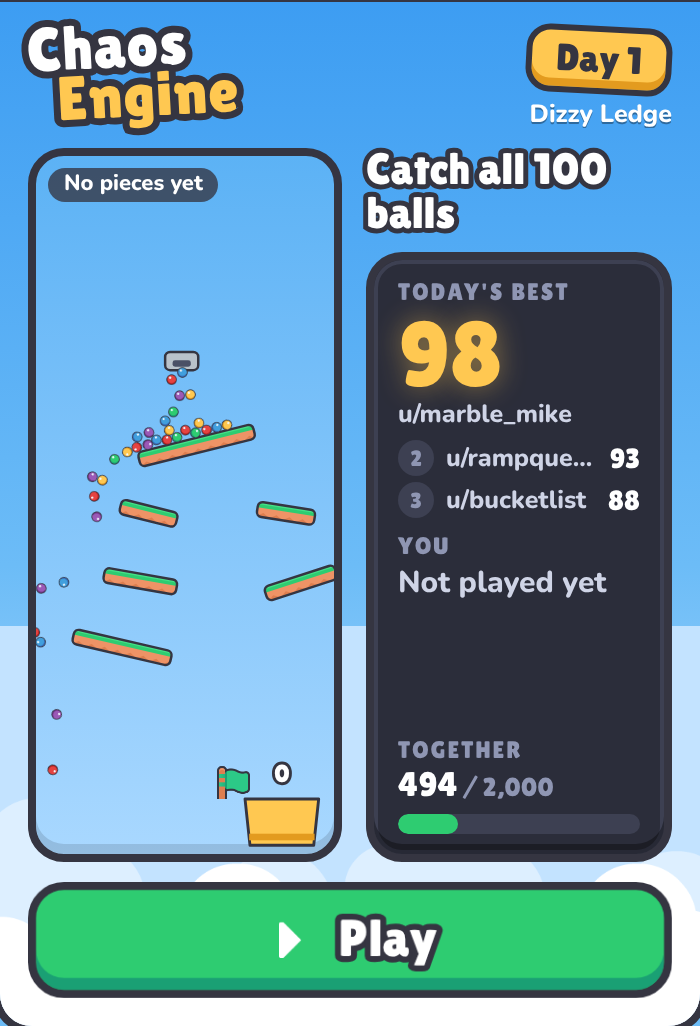
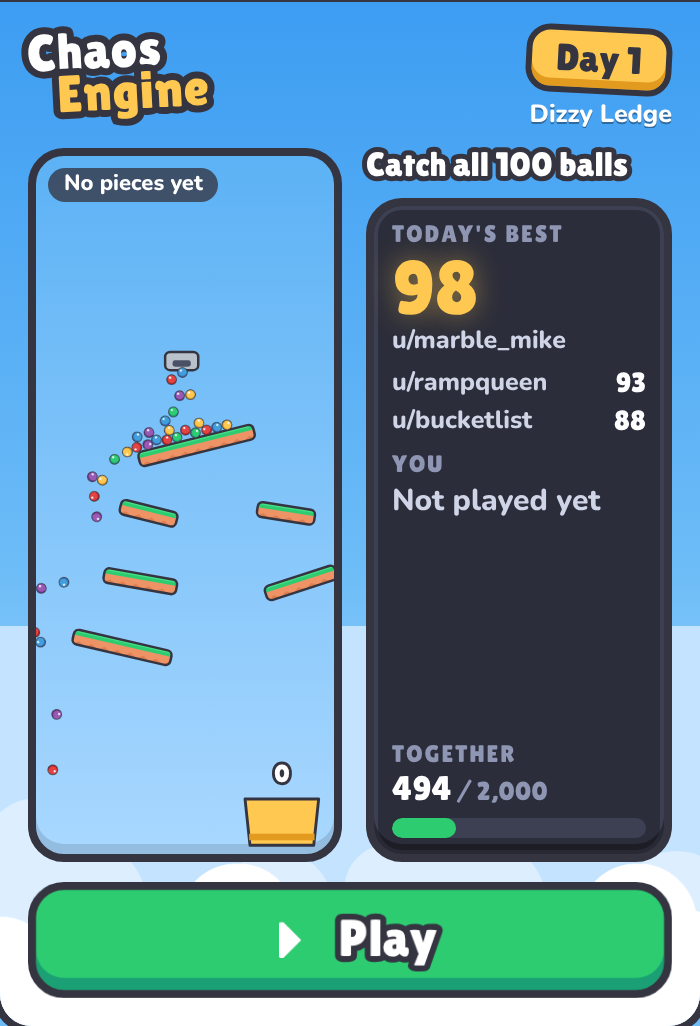
Drop the flag; fix small-screen overflows and spinner jump
- Leaderboard card scrolls its list (to your row) so Close always fits
- Icon-only tools under 360px wide; tighter cards on short screens
- Feed card: smaller headline and numbers on narrow cards
- Spinners rest at their start pose until the pour (no jump on Pour)
- Pieces can't sit in the chute's mouth (new balls would appear inside
  them); same rule on phone and server

Claude-Session: https://claude.ai/code/session_01LMNKs3AJVZCGNwu53evDzU

diff --git a/src/client/pour/game.css b/src/client/pour/game.css
@@ -52,7 +52,7 @@ img { display: block; -webkit-user-drag: none; pointer-events: none; }
 .tip[hidden] { display: none !important; }
 
 .veil { position: absolute; inset: 0; display: flex; align-items: center; justify-content: center; padding: 12px; background: rgba(20, 60, 120, .3); z-index: 5; }
-.card { width: 100%; max-width: 330px; max-height: 100%; overflow: auto; border-radius: 24px; background: var(--paper); border: 4px solid var(--ink); box-shadow: inset 0 -8px 0 #dbe5ee; padding: 16px 16px 20px; display: flex; flex-direction: column; align-items: center; gap: 10px; animation: pop .3s cubic-bezier(.3, 1.5, .5, 1); }
+.card { width: 100%; max-width: 330px; max-height: 100%; min-height: 0; overflow: hidden; border-radius: 24px; background: var(--paper); border: 4px solid var(--ink); box-shadow: inset 0 -8px 0 #dbe5ee; padding: 16px 16px 20px; display: flex; flex-direction: column; align-items: center; gap: 10px; animation: pop .3s cubic-bezier(.3, 1.5, .5, 1); }
 @keyframes pop { from { transform: scale(.8); opacity: 0; } }
 .card h2 { margin: 0; font: 26px var(--display); text-align: center; }
 .card p { margin: 0; color: var(--muted); text-align: center; }
@@ -65,8 +65,10 @@ img { display: block; -webkit-user-drag: none; pointer-events: none; }
 .btn.b { background: var(--blue); box-shadow: inset 0 -5px 0 var(--blue-d); }
 .btn.y { background: var(--yellow); box-shadow: inset 0 -5px 0 var(--yellow-d); }
 
-.board { list-style: none; margin: 0; padding: 0; width: 100%; display: flex; flex-direction: column; gap: 4px; }
-.board li { display: flex; align-items: center; gap: 8px; height: 36px; padding: 0 10px 0 6px; border-radius: 12px; background: #eef4fa; }
+.board { list-style: none; margin: 0; padding: 0; width: 100%; display: flex; flex-direction: column; gap: 4px; min-height: 0; overflow-y: auto; flex: 0 1 auto; }
+.card > * { flex-shrink: 0; }
+.card > .board { flex-shrink: 1; }
+.board li { display: flex; align-items: center; gap: 8px; height: 36px; flex: none; padding: 0 10px 0 6px; border-radius: 12px; background: #eef4fa; }
 .board li.me { background: #fff3cf; box-shadow: inset 0 0 0 3px var(--yellow); }
 .board li.gap { justify-content: center; background: none; height: 16px; color: var(--muted); }
 .board .who { flex: 1; min-width: 0; overflow: hidden; text-overflow: ellipsis; white-space: nowrap; }
@@ -91,3 +93,21 @@ img { display: block; -webkit-user-drag: none; pointer-events: none; }
 .confetto { position: absolute; top: -30px; width: 22px; height: 22px; animation: fall 2.4s ease-in forwards; z-index: 6; pointer-events: none; }
 @keyframes fall { to { transform: translateY(110vh) rotate(540deg); } }
 @media (prefers-reduced-motion: reduce) { .card, .confetto { animation: none; } .confetto { display: none; } }
+
+/* Small phones: tighter cards, icon-only tools. */
+@media (max-height: 640px) {
+  .card { gap: 8px; padding: 12px 12px 14px; }
+  .card h2 { font-size: 22px; }
+  .board li { height: 30px; }
+  .board b { font-size: 17px; }
+  .big { font-size: 60px; }
+  .btn { height: 48px; font-size: 18px; }
+}
+@media (max-width: 359px) {
+  .tool { height: 56px; }
+  .tool b { display: none; }
+  .tool canvas { width: 36px; height: 31px; }
+  .go { width: 66px; height: 60px; }
+  .wide { font-size: 15px; height: 56px; }
+  .top .name { font-size: 16px; }
+}

diff --git a/src/client/pour/game.ts b/src/client/pour/game.ts
@@ -2,7 +2,7 @@
  * The game screen: place pieces on today's machine, pour 100 balls, climb the leaderboard.
  * Physics runs here at a fixed 1/60 s step with the same code the server uses to check scores.
  */
-import { snap } from '../../shared/pour/build';
+import { fitPiece, snap } from '../../shared/pour/build';
 import { Pour } from '../../shared/pour/sim';
 import { BALLS, H, type Machine, type Piece, type Tool, TOOL_NAME, TOOLS, TURN, W } from '../../shared/pour/types';
 import type { DayView, Entry, PourResult, Totals } from '../../shared/protocol';
@@ -86,7 +86,7 @@ export class Game {
   private loadBuild(): Piece[] {
     try {
       const raw = store(this.buildKey());
-      if (raw) return (JSON.parse(raw) as Piece[]).filter((p) => TOOLS.includes(p.type));
+      if (raw) return (JSON.parse(raw) as Piece[]).filter((p) => TOOLS.includes(p.type)).map((p) => fitPiece(this.machine, snap(p)));
     } catch {
       /* ignore */
     }
@@ -203,7 +203,7 @@ export class Game {
       // A tap: turn it.
       const i = this.pieces.indexOf(d.piece);
       if (TURN[d.piece.type] && i >= 0) {
-        this.pieces[i] = snap({ ...d.piece, a: d.piece.a + TURN[d.piece.type] });
+        this.pieces[i] = fitPiece(this.machine, snap({ ...d.piece, a: d.piece.a + TURN[d.piece.type] }));
         this.selected = this.pieces[i]!;
         sfx.tick();
         this.say('Turned. Tap again to keep turning', 1400);
@@ -224,7 +224,7 @@ export class Game {
       this.renderBar();
       return;
     }
-    const placed = snap(d.piece);
+    const placed = fitPiece(this.machine, snap(d.piece));
     if (d.fresh) this.pieces.push(placed);
     else this.pieces[this.pieces.indexOf(d.piece)] = placed;
     this.selected = placed;
@@ -411,11 +411,13 @@ export class Game {
     const v = this.v;
     const rows = v.board.map((e) => boardRow(e, e.username === v.me.username));
     if (v.me.rank && v.me.best !== null && !v.board.some((e) => e.username === v.me.username)) rows.push(h('li', { class: 'gap' }, '⋯'), boardRow({ rank: v.me.rank, username: v.me.username ?? 'you', score: v.me.best, at: 0 }, true));
+    const list = h('ol', { class: 'board' }, ...rows);
+    requestAnimationFrame(() => list.querySelector('.me')?.scrollIntoView({ block: 'nearest' }));
     const closed = this.closed();
     const foot = closed ? (v.result?.winner ? `Build of the Day: u/${v.result.winner.username}` : 'This machine has closed.') : `Builds are revealed when the day closes in ${until(v.day.locksAt - Date.now() - this.skew)}.`;
     this.card(
       h('h2', {}, closed ? 'Final board' : "Today's board"),
-      rows.length ? h('ol', { class: 'board' }, ...rows) : h('p', {}, 'Nobody has poured yet. Be the first!'),
+      rows.length ? list : h('p', {}, 'Nobody has poured yet. Be the first!'),
       meter(v.result?.totals ?? v.totals),
       h('p', { class: 'foot' }, foot),
       h('div', { class: 'row' }, h('button', { class: 'btn b', onclick: () => this.closeCard() }, 'Close')),

diff --git a/src/client/pour/draw.ts b/src/client/pour/draw.ts
@@ -16,7 +16,7 @@ export function img(name: string): HTMLImageElement {
   }
   return i;
 }
-export const ART = ['fan', 'fan_blades', 'spring', 'spring_out', 'flag_a', 'flag_b', ...BALL_LOOKS];
+export const ART = ['fan', 'fan_blades', 'spring', 'spring_out', ...BALL_LOOKS];
 export const artReady = (): Promise<void> =>
   Promise.all(ART.map((n) => (img(n).complete ? Promise.resolve() : new Promise<void>((r) => ((img(n).onload = () => r()), (img(n).onerror = () => r())))))).then(() => undefined);
 
@@ -162,7 +162,7 @@ export function drawPiece(c: CanvasRenderingContext2D, p: Piece, t: number, alph
   c.globalAlpha = 1;
 }
 
-function drawBucket(c: CanvasRenderingContext2D, bk: Machine['bucket'], glow: number, now: number): void {
+function drawBucket(c: CanvasRenderingContext2D, bk: Machine['bucket'], glow: number): void {
   const x = bk.x - bk.w / 2 - 8;
   const y = bk.y - 32;
   const w = bk.w + 16;
@@ -180,8 +180,6 @@ function drawBucket(c: CanvasRenderingContext2D, bk: Machine['bucket'], glow: nu
   c.stroke();
   c.fillStyle = '#e39b1f';
   c.fillRect(x + 5, y + h - 14, w - 10, 8);
-  const flagLeft = bk.x > W - 70;
-  c.drawImage(img(Math.floor(now / 380) % 2 ? 'flag_a' : 'flag_b'), flagLeft ? x - 34 : x + w - 6, y - 40, 40, 40);
 }
 
 function drawChute(c: CanvasRenderingContext2D, sp: Machine['spawn']): void {
@@ -254,7 +252,7 @@ export class View {
     for (const b of m.blocks) drawBlock(c, b);
     for (const [x, y] of m.pegs) drawPeg(c, x, y);
     m.spinners.forEach((sp, i) => {
-      const angle = s.pour ? s.pour.spinners[i]!.body.angle : (s.now / (1000 / 60)) * sp.speed;
+      const angle = s.pour ? s.pour.spinners[i]!.body.angle : 0; // at rest in the pose every pour starts from
       withRot(c, sp.x, sp.y, angle, () => {
         drawPlank(c, sp.len, 12);
         c.beginPath();
@@ -266,7 +264,7 @@ export class View {
         c.stroke();
       });
     });
-    drawBucket(c, m.bucket, s.flashes.get('bucket') ?? 0, s.now);
+    drawBucket(c, m.bucket, s.flashes.get('bucket') ?? 0);
     s.pieces.forEach((p, i) => {
       if (p !== s.drag?.piece) drawPiece(c, p, t, 1, s.flashes.get(i) ?? 0);
     });

diff --git a/tests/pour.test.ts b/tests/pour.test.ts
@@ -1,6 +1,6 @@
 import { describe, expect, it } from 'vitest';
 import { datan2, dcos, dsin, withDetMath } from '../src/shared/pour/detmath';
-import { buildKey, cleanBuild, parseBuildKey, snap } from '../src/shared/pour/build';
+import { buildKey, cleanBuild, fitPiece, parseBuildKey, snap } from '../src/shared/pour/build';
 import { Pour, runPour } from '../src/shared/pour/sim';
 import { machineForDay, mirror, PACK } from '../src/shared/pour/pack';
 import { generateMachine } from '../src/shared/pour/generate';
@@ -64,6 +64,14 @@ describe('builds', () => {
     expect(cleanBuild(TEST_MACHINE, [{ type: 'spring', x: 1, y: 1, a: 0 }])).toBeNull();
     expect(cleanBuild(TEST_MACHINE, [{ type: 'ramp', x: NaN, y: 1, a: 0 }])).toBeNull();
     expect(cleanBuild(TEST_MACHINE, 'nope')).toBeNull();
+  });
+  it('moves pieces out of the chute mouth, and only those', () => {
+    const sp = TEST_MACHINE.spawn;
+    const under = fitPiece(TEST_MACHINE, { type: 'ramp', x: sp.x, y: 40, a: 80 });
+    expect(under.y).toBe(sp.y + 12 + 42);
+    expect(fitPiece(TEST_MACHINE, under)).toEqual(under);
+    expect(fitPiece(TEST_MACHINE, { type: 'ramp', x: sp.x + 120, y: 40, a: 0 }).y).toBe(40);
+    expect(cleanBuild(TEST_MACHINE, [{ type: 'bumper', x: sp.x, y: 41, a: 0 }])![0]!.y).toBe(sp.y + 12 + 17);
   });
   it('round-trips through its stored form', () => {
     const b: Piece[] = [{ type: 'ramp', x: 100, y: 200, a: 40 }];

diff --git a/src/shared/pour/build.ts b/src/shared/pour/build.ts
@@ -17,6 +17,21 @@ export function snap(p: Piece): Piece {
   };
 }
 
+/** How far each piece reaches from its centre. */
+const REACH: Record<Tool, number> = { ramp: 42, spring: 34, bumper: 17, fan: 15 };
+
+/**
+ * Keep pieces out of the chute's mouth: a piece there would make new balls appear inside it.
+ * A piece too close is moved straight down until it clears. Same rule on phone and server.
+ */
+export function fitPiece(machine: Machine, p: Piece): Piece {
+  const sp = machine.spawn;
+  const r = REACH[p.type];
+  if (Math.abs(p.x - sp.x) >= r + 14) return p;
+  const minY = sp.y + 12 + r;
+  return p.y >= minY ? p : { ...p, y: minY };
+}
+
 /** A valid build for this machine, or null. Never trusts the client: snaps and counts everything. */
 export function cleanBuild(machine: Machine, raw: unknown): Piece[] | null {
   if (!Array.isArray(raw) || raw.length > MAX_PIECES) return null;
@@ -29,7 +44,7 @@ export function cleanBuild(machine: Machine, raw: unknown): Piece[] | null {
     if (![x, y, a].every(Number.isFinite)) return null;
     used[type] = (used[type] ?? 0) + 1;
     if (used[type]! > (machine.tools[type] ?? 0)) return null;
-    out.push(snap({ type, x, y, a }));
+    out.push(fitPiece(machine, snap({ type, x, y, a })));
   }
   return out;
 }

diff --git a/src/client/splash/card.css b/src/client/splash/card.css
@@ -66,3 +66,12 @@
   .ce-card .none { font-size: 13px; }
   .ce-card .play { height: 50px; font-size: 22px; }
 }
+
+/* Narrow cards: smaller headline and numbers so names keep their room. */
+@container (max-width: 340px) {
+  .ce-card .hook { font-size: 17px; }
+  .ce-card .hi .v { font-size: 38px; }
+  .ce-card .logo b { font-size: 26px; }
+  .ce-card .sb { padding: 8px 9px; }
+  .ce-card .chasers li b:first-child { display: none; }
+}
